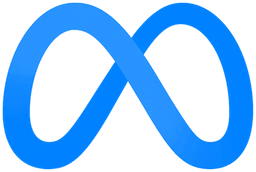
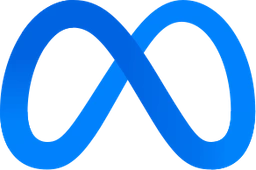
Refaz o simbolo da Meta a partir do arquivo com transparencia real
O novo arquivo tem canal alfa de verdade, entao o simbolo sai recortado
direto, sem a chave por distancia de cor que o PNG de fundo opaco
exigia.

A diferenca e medivel: 2.032 pixels de alfa parcial contra 10.671 da
versao reconstruida. A chave por cor espalhava borda mole em volta de
todo o tracado.

E preserva o degrade da marca, que a reconstrucao achatava numa cor
chapada: para montar o alfa eu fixava o RGB na cor lida do pixel mais
distante do fundo, e com isso perdia a variacao interna do simbolo.

O arquivo ainda ficou menor, 13,6KB contra 16,9KB.

A palavra "Meta" desse lockup vem em azul-marinho, variante para fundo
claro, que sumiria no cartao escuro. Nao faz diferenca aqui porque so o
simbolo e usado, mas fica o registro caso alguem tente aproveitar o
arquivo inteiro depois.

diff --git a/src/app/(site)/_componentes/marcas.tsx b/src/app/(site)/_componentes/marcas.tsx
@@ -8,8 +8,10 @@ import Image from "next/image";
  * palavra sairia ilegível, além de repetir o título, que já diz "Meta
  * Ads" e "Google Ads".
  *
- * O PNG da Meta vinha com fundo opaco, que dentro da pastilha viraria um
- * retângulo; a transparência foi reconstruída por distância de cor.
+ * O recorte da Meta sai do arquivo com transparência real, não do PNG de
+ * fundo opaco: reconstruir o alfa por distância de cor deixava cinco
+ * vezes mais pixel de borda mole e achatava o degradê da marca numa cor
+ * chapada.
  *
  * A assinatura repete a do lucide (`size`) para o cartão poder trocar um
  * ícone pelo outro sem saber a diferença. Uso nominativo: Meta e Google
@@ -31,7 +33,7 @@ export function MetaIcone({ size = 24, className }: Props) {
       src="/marca/meta.webp"
       alt="Meta"
       width={256}
-      height={172}
+      height={170}
       style={{ width: size * META, height: "auto" }}
       className={className}
     />
